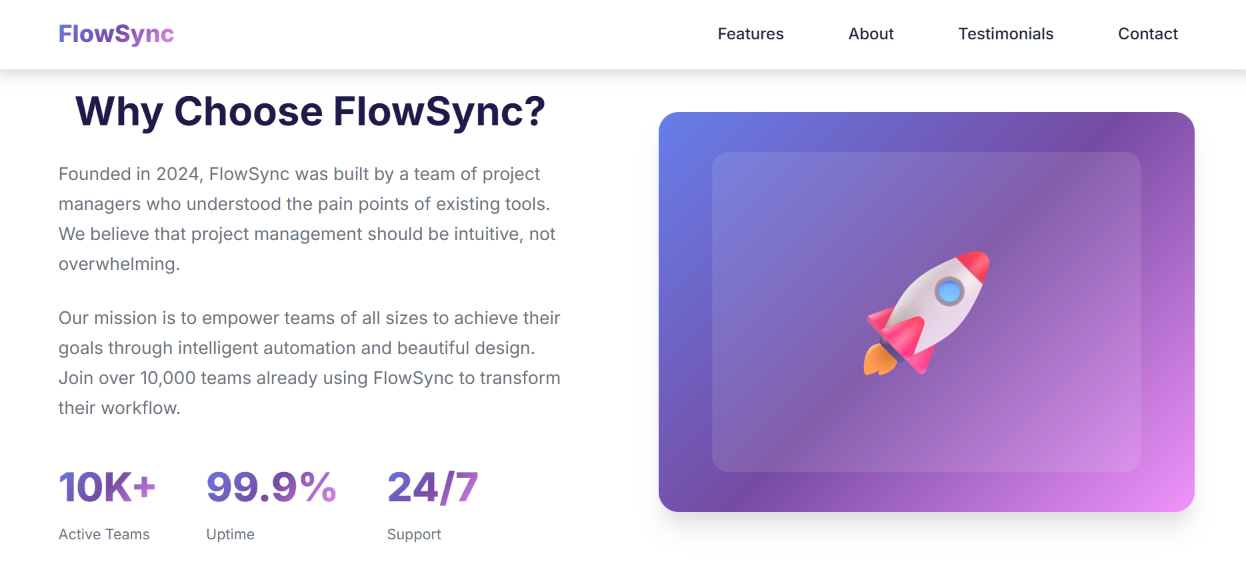
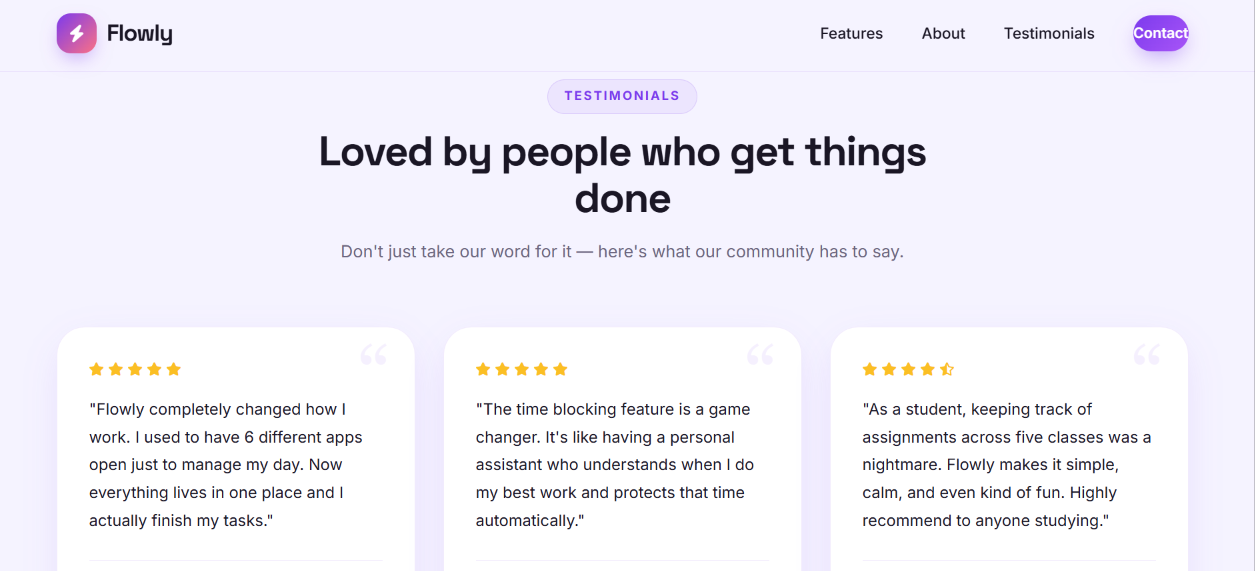
Update screenshots and remove old screenshot.png

diff --git a/README.md b/README.md
@@ -1,7 +1,5 @@
 # OIBSIP-L1-Task1 Landing Page
 
-![Title Card](home.png)
-
 A visually polished static landing page for FlowSync - a fictional project management SaaS product. This project demonstrates foundational HTML5 and CSS3 layout skills.
 
 ## Tech Stack
